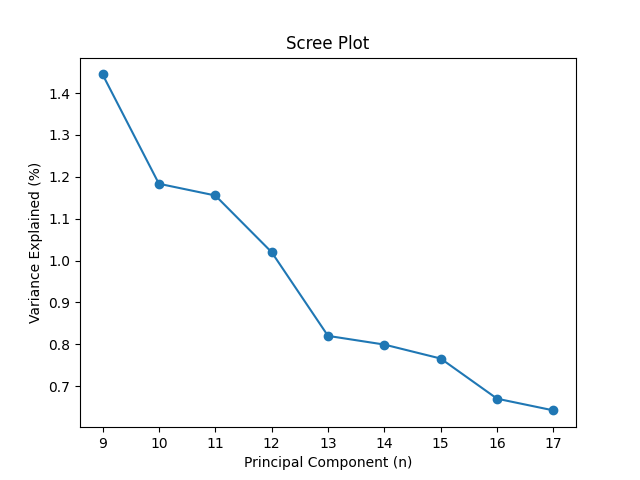
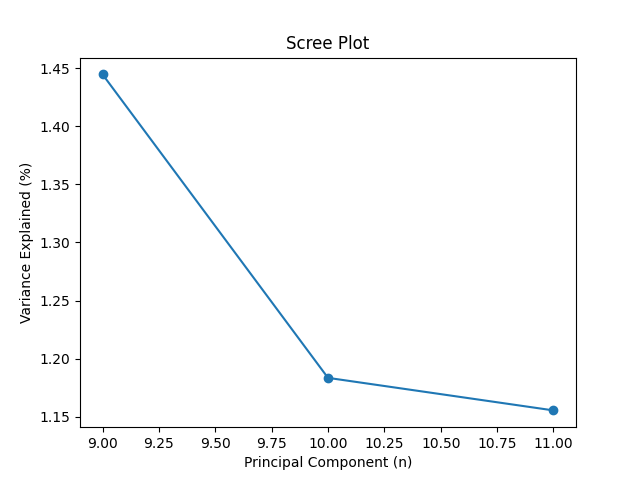
removed fcm, style fixes, split stratify

diff --git a/Task2/ss.py b/Task2/ss.py
@@ -17,37 +17,41 @@ from sklearn.preprocessing import StandardScaler
 
 RANDOM_STATE = 42
 
-class SemiSupervised:
 
+class SemiSupervised:
     def __init__(self, df: pd.DataFrame, neighbors: int) -> None:
         self.df = df
 
         over = SMOTE(sampling_strategy=0.1)
         under = RandomUnderSampler(sampling_strategy=0.5)
         steps = [("o", over), ("u", under)]
-        self.pipeline = Pipeline(steps = steps)
+        self.pipeline = Pipeline(steps=steps)
 
         self.scalar = StandardScaler()
 
-        self.baseline_model = KNeighborsClassifier(n_neighbors = neighbors)
-        self.semi_supervised = LabelPropagation(kernel = "knn", n_neighbors = neighbors)
-        self.baseline_2 = KNeighborsClassifier(n_neighbors = neighbors)
-    
+        self.baseline_model = KNeighborsClassifier(n_neighbors=neighbors)
+        self.semi_supervised = LabelPropagation(kernel="knn", n_neighbors=neighbors)
+        self.baseline_2 = KNeighborsClassifier(n_neighbors=neighbors)
+
     def processData(self):
         X1 = self.df.iloc[:, 0:-1].values
         y1 = self.df.iloc[:, -1].values
 
         return X1, y1
-    
+
     def balanceData(self, X, y):
         X_bal, y_bal = self.pipeline.fit_resample(X, y)
         X_scale = self.scalar.fit_transform(X_bal)
 
         return X_scale, y_bal
-    
+
     def splitData(self, X, y):
-        X_TRAIN, X_TEST, Y_TRAIN, Y_TEST = train_test_split(X, y, test_size=0.2, stratify=y)
-        X_TRAIN_UNLAB, X_TRAIN_LAB, Y_TRAIN_UNLAB, Y_TRAIN_LAB = train_test_split(X_TRAIN, Y_TRAIN, test_size=0.3, stratify=Y_TRAIN)
+        X_TRAIN, X_TEST, Y_TRAIN, Y_TEST = train_test_split(
+            X, y, test_size=0.2, stratify=y
+        )
+        X_TRAIN_UNLAB, X_TRAIN_LAB, Y_TRAIN_UNLAB, Y_TRAIN_LAB = train_test_split(
+            X_TRAIN, Y_TRAIN, test_size=0.3, stratify=Y_TRAIN
+        )
 
         baseline_data = (X_TRAIN, X_TEST, Y_TRAIN, Y_TEST)
         semi_supervised_data = (X_TRAIN_UNLAB, X_TRAIN_LAB, Y_TRAIN_UNLAB, Y_TRAIN_LAB)
@@ -60,7 +64,7 @@ class SemiSupervised:
         score = f1_score(y_test, pred)
 
         return score
-    
+
     def task2(self, train_data, X_test, y_test):
         X_TRAIN_UNLAB, X_TRAIN_LAB, Y_TRAIN_UNLAB, Y_TRAIN_LAB = train_data
 
@@ -75,7 +79,7 @@ class SemiSupervised:
         y_transduction = self.semi_supervised.transduction_
 
         return score, X, y_transduction
-    
+
     def task3(self, X, y, X_test, y_test):
         self.baseline_2.fit(X, y)
         pred = self.baseline_2.predict(X_test)
@@ -88,11 +92,11 @@ class SemiSupervised:
 
         for x in y:
             c = Counter(x)
-            res.append(c[0]/c[1])
-        
+            res.append(c[0] / c[1])
+
         print(f"Train ratio: {res[0]} \nTest ratio: {res[1]}")
-    
-    def run(self, epochs = 100):
+
+    def run(self, epochs=100):
         s1 = []
         s2 = []
         s3 = []
@@ -106,7 +110,12 @@ class SemiSupervised:
 
             baseline_data, semi_supervised_data = self.splitData(X_bal, y_bal)
             (X_TRAIN, X_TEST, Y_TRAIN, Y_TEST) = baseline_data
-            (X_TRAIN_UNLAB, X_TRAIN_LAB, Y_TRAIN_UNLAB, Y_TRAIN_LAB) = semi_supervised_data
+            (
+                X_TRAIN_UNLAB,
+                X_TRAIN_LAB,
+                Y_TRAIN_UNLAB,
+                Y_TRAIN_LAB,
+            ) = semi_supervised_data
 
             self.getClassRatio([Y_TRAIN, Y_TEST])
 
@@ -115,7 +124,9 @@ class SemiSupervised:
             s1.append(score)
 
             train_data = [X_TRAIN_UNLAB, X_TRAIN_LAB, Y_TRAIN_UNLAB, Y_TRAIN_LAB]
-            score, X_transduction, y_transduction = self.task2(train_data, X_TEST, Y_TEST)
+            score, X_transduction, y_transduction = self.task2(
+                train_data, X_TEST, Y_TEST
+            )
             print(f"Semi-supervised score: {score}")
             s2.append(score)
 

diff --git a/Task1/feature_extraction.py b/Task1/feature_extraction.py
@@ -67,7 +67,9 @@ class FeatureExtraction:
 
         pca_reduction = PCA(n_components=n_components)
         data_reduced = pca_reduction.fit_transform(self.data)
-        self.scree_plot(pca_reduction.n_components, pca_reduction.explained_variance_ratio_ * 100)
+        self.scree_plot(
+            pca_reduction.n_components, pca_reduction.explained_variance_ratio_ * 100
+        )
 
         return np.array(data_reduced, dtype="object")
 
@@ -85,17 +87,17 @@ class FeatureExtraction:
 
     def scree_plot(self, n_components, explain_var) -> None:
         pc_values = np.arange(n_components) + 1
-        plt.plot(pc_values, explain_var, 'o-')
-        plt.title('Scree Plot')
-        plt.xlabel('Principal Component (n)')
-        plt.ylabel('Variance Explained (%)')
+        plt.plot(pc_values, explain_var, "o-")
+        plt.title("Scree Plot")
+        plt.xlabel("Principal Component (n)")
+        plt.ylabel("Variance Explained (%)")
         plt.savefig(os.path.join("plots", "scree.png"))
         plt.close()
 
         pc_values = np.arange(n_components) + 1
-        plt.plot(pc_values[8:], explain_var[8:], 'o-')
-        plt.title('Scree Plot')
-        plt.xlabel('Principal Component (n)')
-        plt.ylabel('Variance Explained (%)')
+        plt.plot(pc_values[8:], explain_var[8:], "o-")
+        plt.title("Scree Plot")
+        plt.xlabel("Principal Component (n)")
+        plt.ylabel("Variance Explained (%)")
         plt.savefig(os.path.join("plots", "scree2.png"))
         plt.close()

diff --git a/Task2/main.py b/Task2/main.py
@@ -6,22 +6,24 @@ from ss import SemiSupervised
 
 if __name__ == "__main__":
     df = pd.read_csv("data/creditcard.csv")
-    df = df.drop(["Time", "Amount"], axis = 1)
+    df = df.drop(["Time", "Amount"], axis=1)
 
-    ss = SemiSupervised(df, neighbors = 3)
+    ss = SemiSupervised(df, neighbors=3)
 
     s1, s2, s3 = ss.run()
 
     print("================\n")
-    
+
     print(f"Average q2 score: {np.mean(s1)}")
     print(f"Average q3 score: {np.mean(s2)}")
     print(f"Average q4 score: {np.mean(s3)}")
 
     scores = [s1, s2, s3]
-    titles = ["Baseline model (KNN): Epochs vs F1 score", 
-              "Semi-supervised model (LinearPropogation): Epochs vs F1 score", 
-              "Baseline model (KNN) training with Semi-supervised model (LinearPropogation) labels: Epochs vs F1 score"]
+    titles = [
+        "Baseline model (KNN): Epochs vs F1 score",
+        "Semi-supervised model (LinearPropogation): Epochs vs F1 score",
+        "Baseline model (KNN) training with Semi-supervised model (LinearPropogation) labels: Epochs vs F1 score",
+    ]
 
     for i in range(len(scores)):
         fig, ax = plt.subplots(figsize=(15, 8))

diff --git a/Task1/classification.py b/Task1/classification.py
@@ -1,5 +1,7 @@
 #!/usr/bin/env python3
 import numpy as np
+
+from collections import Counter
 from sklearn import metrics
 
 from sklearn.ensemble import RandomForestClassifier, VotingClassifier
@@ -15,13 +17,16 @@ class Classification:
     def __init__(self, x: np.ndarray, y: np.ndarray) -> None:
         self.x, self.y = x, y
         self.x_train, self.x_test, self.y_train, self.y_test = train_test_split(
-            x, y, test_size=0.2, random_state=42
+            x, y, test_size=0.2, random_state=42, stratify=self.y
         )
+
+        # x: 100%, x_train_full: 80%, x_test: 20%, x_train: 70%, x_val: 10%
         self.x_train_full = self.x_train
         self.y_train_full = self.y_train
         self.x_train, self.x_val, self.y_train, self.y_val = train_test_split(
-            self.x_train, self.y_train, test_size=0.2, random_state=42
+            self.x_train, self.y_train, test_size=0.125, random_state=42, stratify=self.y_train
         )
+
         self.k = None
         self.iter_svc = None
         self.iter_log = None

diff --git a/Task1/clustering.py b/Task1/clustering.py
@@ -6,7 +6,6 @@ import numpy as np
 from sklearn import metrics
 from sklearn.cluster import KMeans, SpectralClustering, OPTICS
 from sklearn.metrics import silhouette_samples, silhouette_score
-from fcmeans import FCM
 
 
 class Clustering:
@@ -35,15 +34,6 @@ class Clustering:
         print("\nSpectral clustering:\n -----------------")
         cluster = SpectralClustering()
         return self.general_clustering(cluster)
-
-    def fuzzy_c_means(self, n_clusters=5) -> np.ndarray:
-        print("\nFuzzy C-means  clustering:\n -----------------")
-        copy_x = self.x
-        self.x = self.x.astype(float)
-        cluster = FCM(n_clusters=n_clusters)
-        labels = self.general_clustering(cluster, sklearn=False)
-        self.x = copy_x
-        return labels
 
     def cluster_with_plots(self, algorithm="kmeans") -> None:
         """
